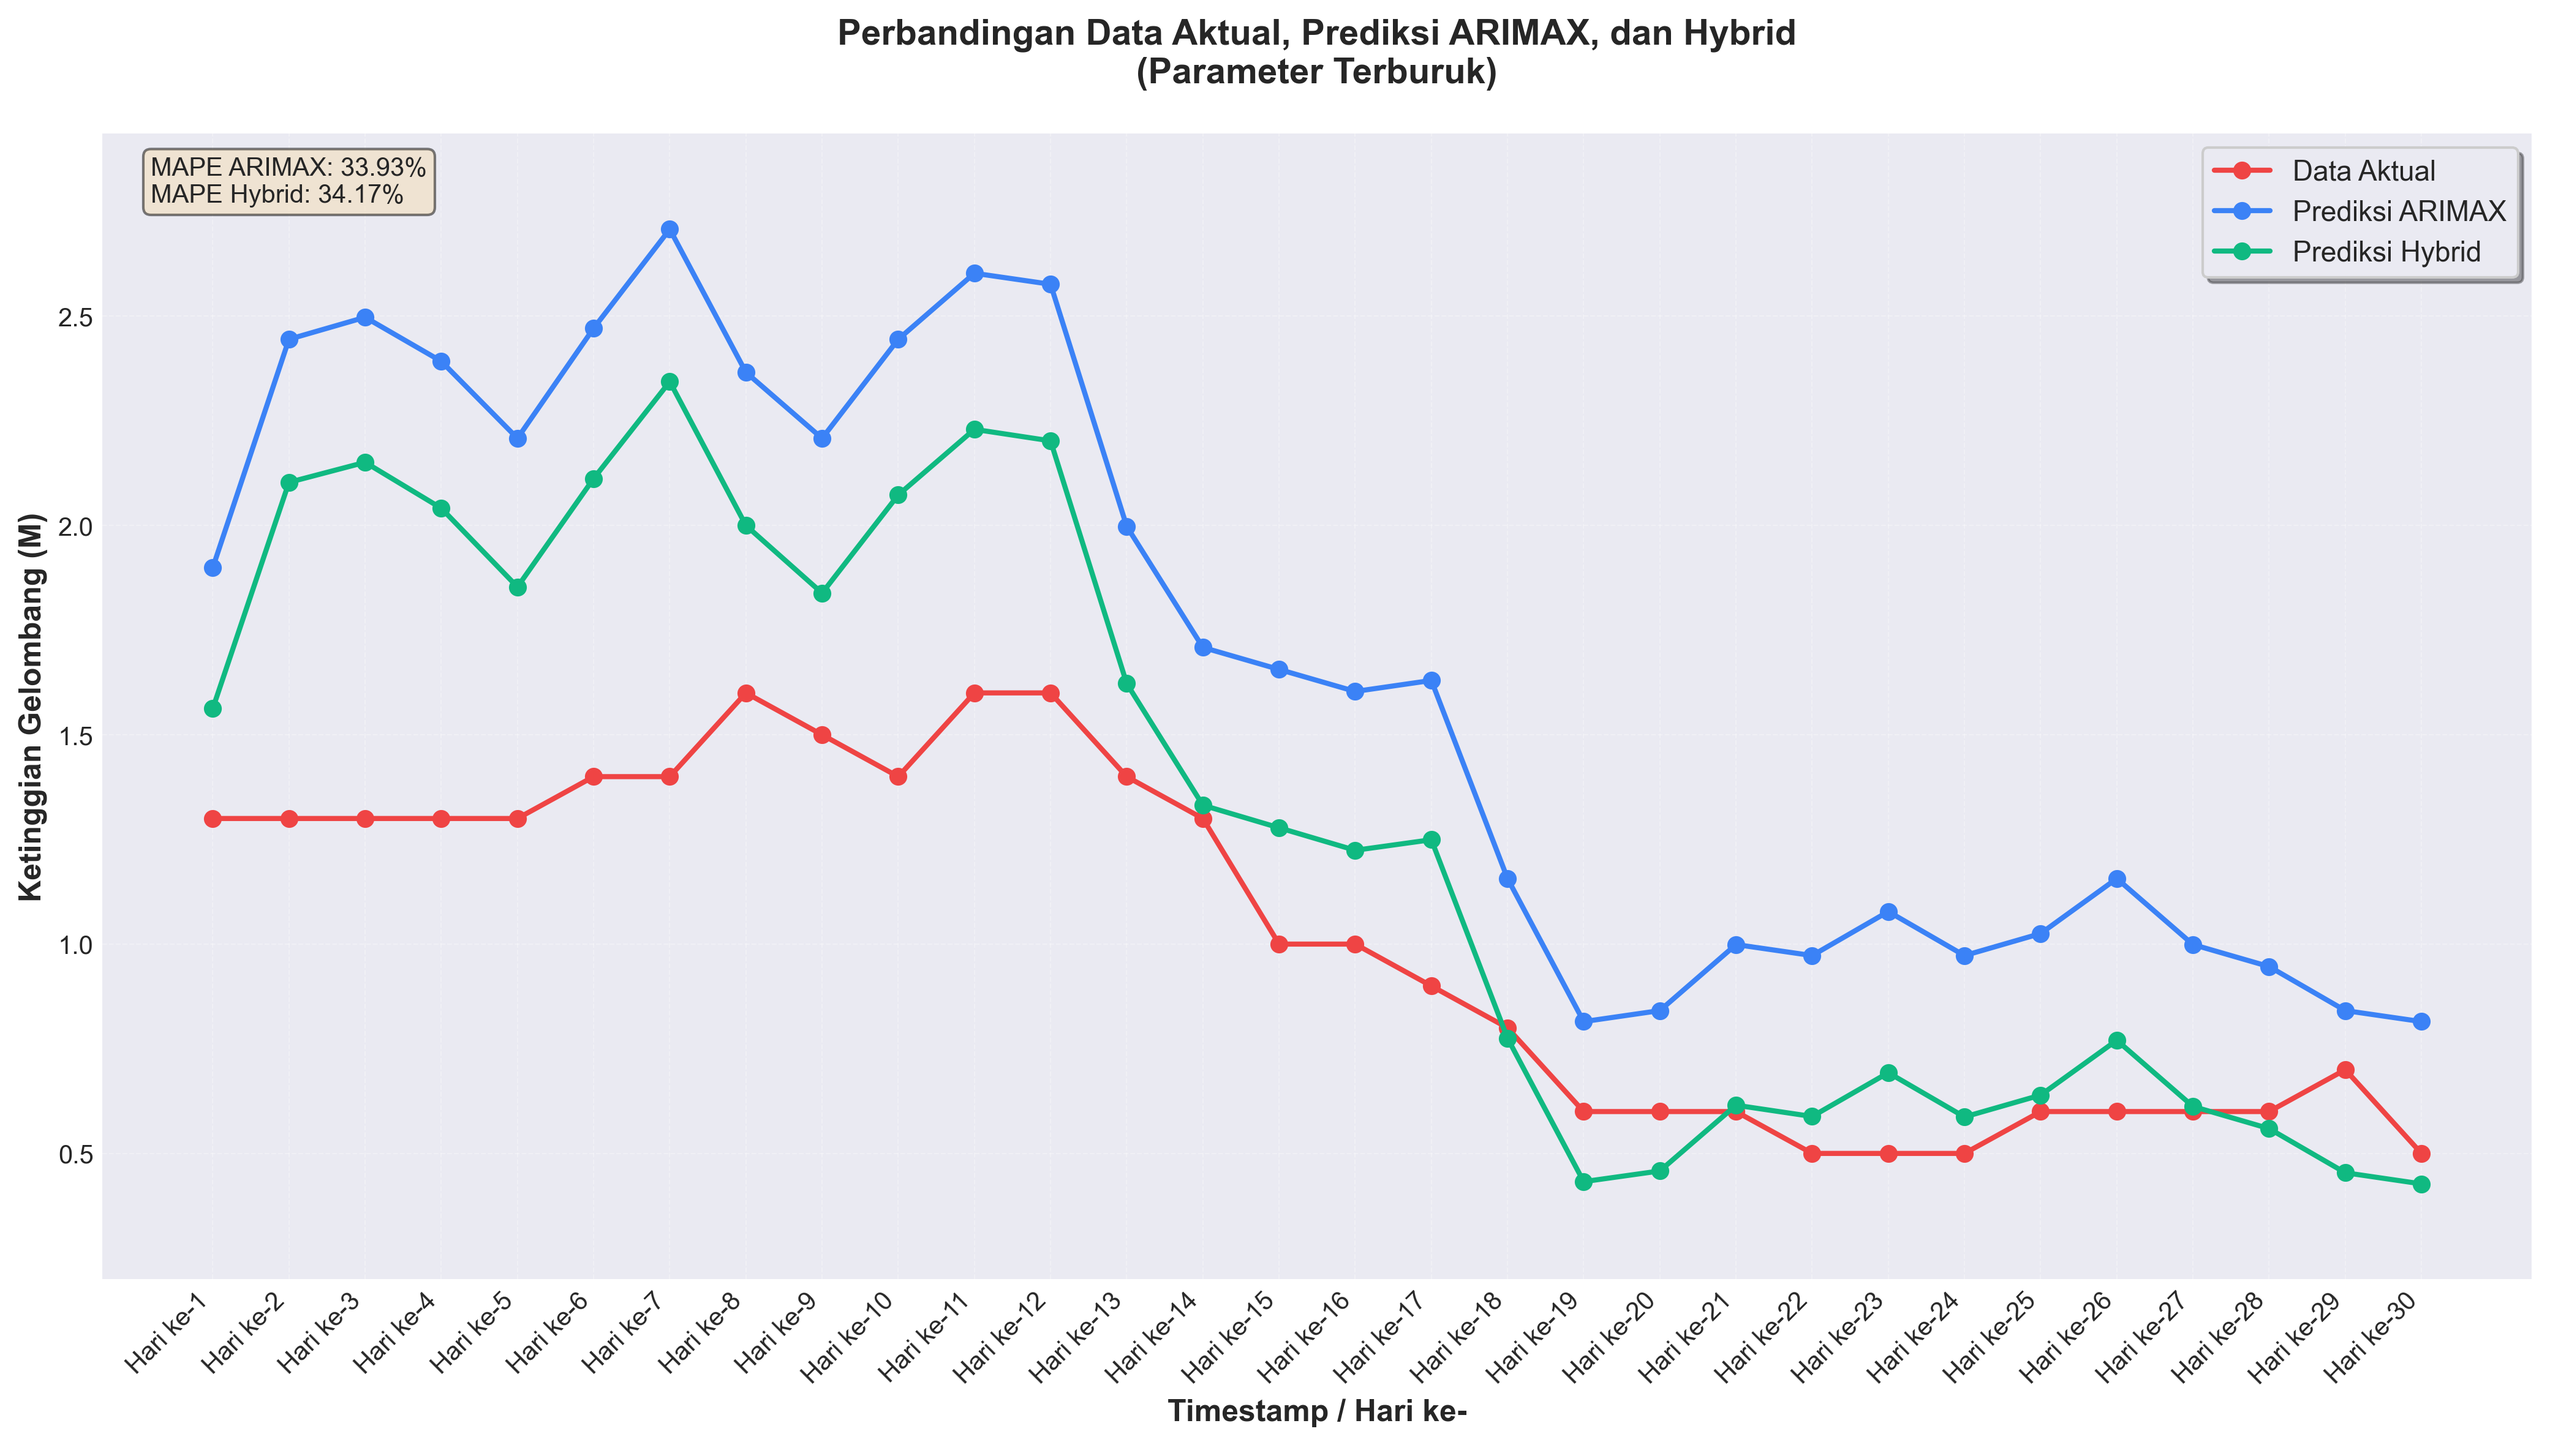
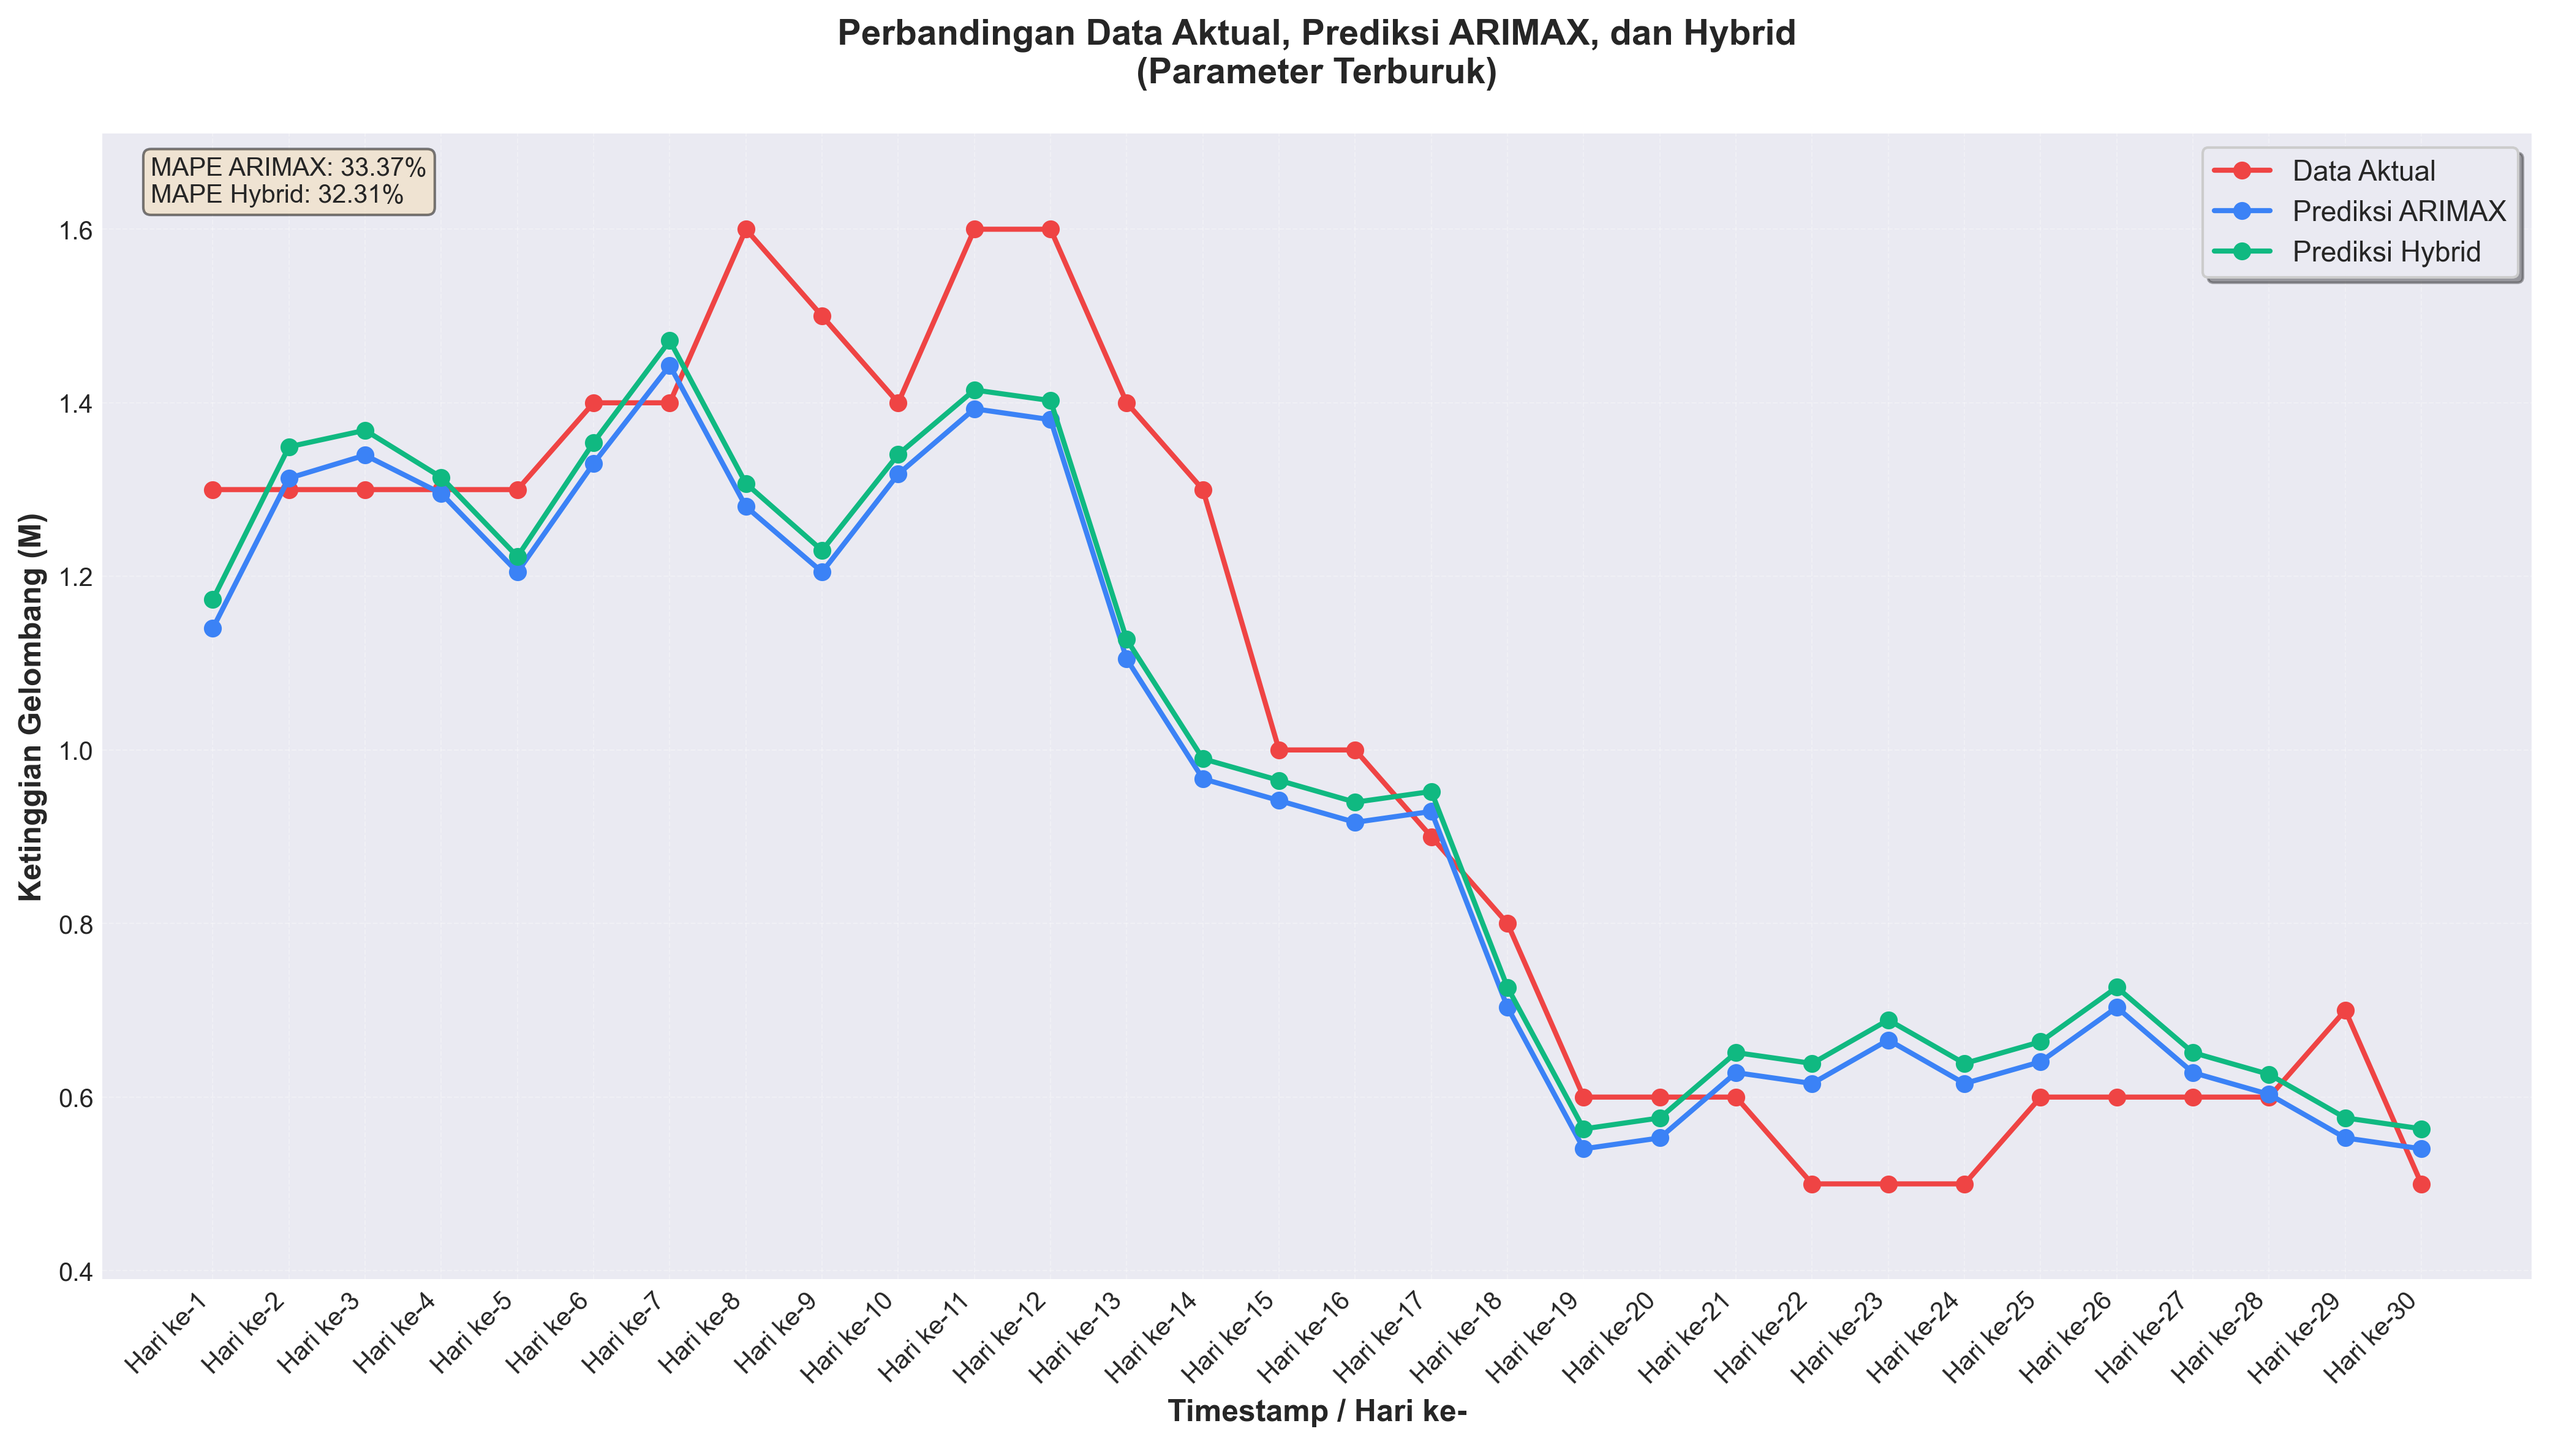
perubahan

diff --git a/python-ml/create_worst_parameter_visualization.py b/python-ml/create_worst_parameter_visualization.py
@@ -3,8 +3,8 @@ Script untuk membuat visualisasi grafik perbandingan ARIMAX dan Hybrid
 dengan parameter terburuk (terendah).
 
 Parameter terburuk:
-- ARIMAX: p,d,q(0,0,1), MAPE 33.92%
-- Hybrid: p,d,q(0,0,1), learning rate 0.01, epoch 10, MAPE 43.99%
+- ARIMAX: p,d,q(3,1,0), MAPE 33.37%
+- Hybrid: p,d,q(3,1,0), learning rate 0.1, epoch 10, MAPE 32.28%
 """
 
 import pandas as pd
@@ -52,8 +52,8 @@ def create_worst_parameter_visualization():
     test = load_dataset('test_dataset.csv')
     
     # Parameter terburuk
-    p, d, q = 0, 0, 1
-    learning_rate = 0.01
+    p, d, q = 3, 1, 0
+    learning_rate = 0.1
     epochs = 10
     
     print(f"Melatih model ARIMAX dengan parameter ({p},{d},{q})...")
@@ -71,7 +71,7 @@ def create_worst_parameter_visualization():
         window=12,
         learning_rate=learning_rate,
         epochs=epochs,
-        seed=789,
+        seed=710,
         quick_eval=False,
     )
     

diff --git a/python-ml/main.py b/python-ml/main.py
@@ -937,7 +937,9 @@ async def test_learning_rates(
         if saved_order:
             order = saved_order
         else:
-            order = (1, 1, 0)
+            # Default order untuk pengujian learning rate disesuaikan dengan
+            # hasil identifikasi model terbaik dari aplikasi utama, yaitu ARIMAX(2,1,1)
+            order = (2, 1, 1)
         
         arimax_res, fitted_train, residual_train = train_arimax(train, order=order)
         residual_train = residual_train.dropna()
